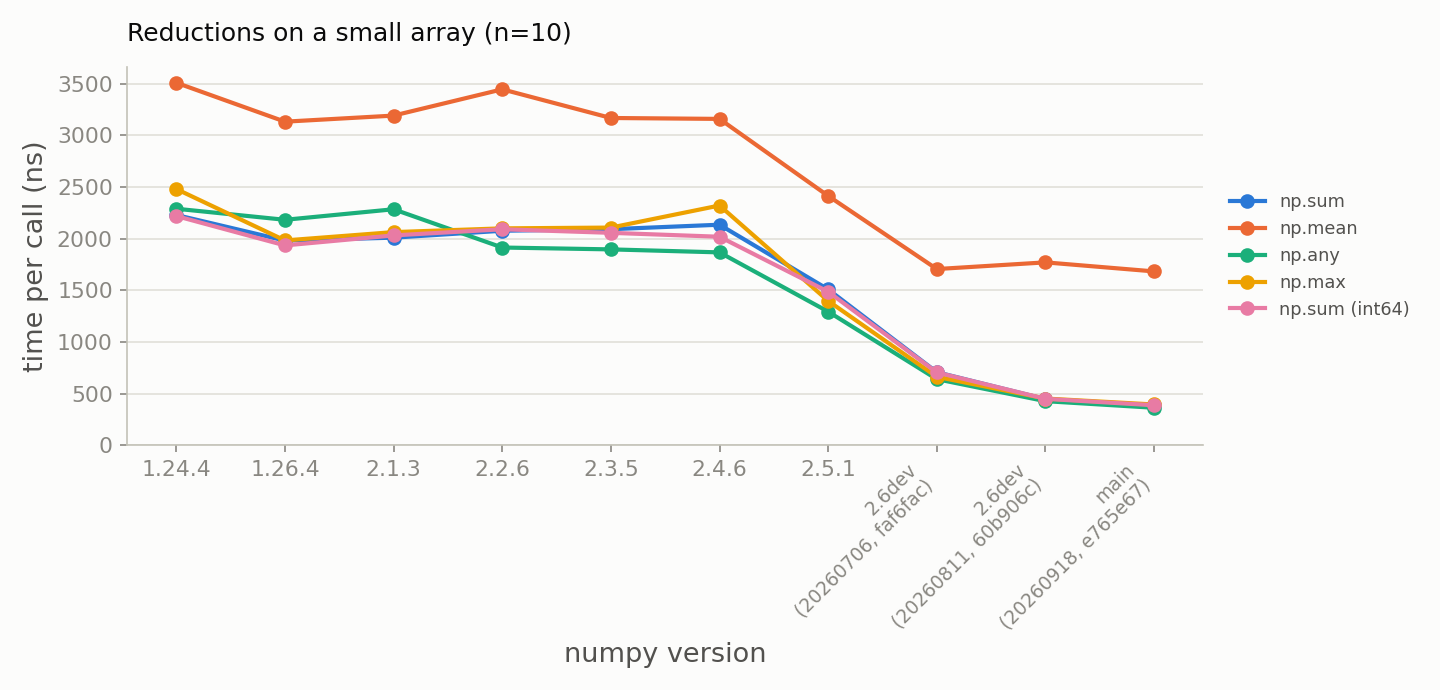
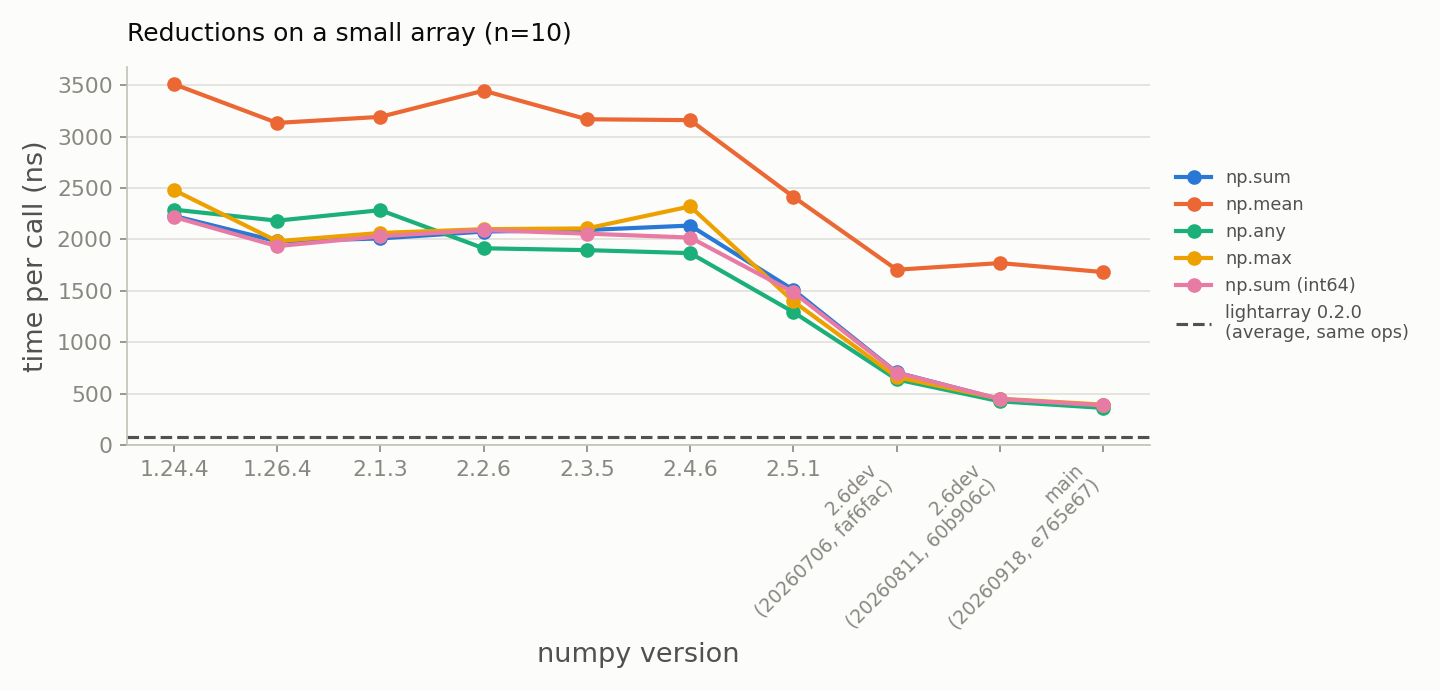
numpy_performance: lightarray reference line in the small-array reduction chart
Time the reduction-10 cases with lightarray arrays as input and draw their
average as a dashed line, as in the ufunc chart. Note the unoptimized
int64 sum path in the text and refresh the package comparison table.

diff --git a/numpy_performance/bench_small_packages.py b/numpy_performance/bench_small_packages.py
@@ -11,9 +11,9 @@ results as JSON plus a markdown table on stdout:
 A package that does not provide an operation gets no entry (tinyarray has no
 trigonometric functions).
 
-The second part times the "ufunc-small" cases of bench_cases.py with
-lightarray arrays as input; plot_results.py draws their average as a reference
-line in the small-array ufunc chart.
+The second part times the "ufunc-small" and "reduction-10" cases of
+bench_cases.py with lightarray arrays as input; plot_results.py draws their
+averages as reference lines in the corresponding charts.
 """
 
 import argparse
@@ -33,6 +33,7 @@ ta_a = ta.array(values); ta_b = ta.ones(10)
 la_a = la.array(values); la_b = la.ones(10)
 la_out = la.empty(10)
 la_i10 = la.array(list(range(10))); la_bi = la.ones(10, dtype=np.int64)
+la_bool10 = la_a > 4
 """
 
 # (row label, {package: statement})
@@ -59,6 +60,15 @@ UFUNC_SMALL_LIGHTARRAY = [
     ("a > b", "la_a > la_b"),
     ("np.maximum(a, b)", "la.maximum(la_a, la_b)"),
     ("ai + bi (int64)", "la_i10 + la_bi"),
+]
+
+# the reduction-10 cases of bench_cases.py, with lightarray arrays as operands
+REDUCTION_10_LIGHTARRAY = [
+    ("np.sum", "la.sum(la_a)"),
+    ("np.mean", "la.mean(la_a)"),
+    ("np.any", "la.any(la_bool10)"),
+    ("np.max", "la.max(la_a)"),
+    ("np.sum (int64)", "la.sum(la_i10)"),
 ]
 
 REPEAT = 9
@@ -98,16 +108,19 @@ def main() -> None:
         print(f"| {row['case']} | " + " | ".join(cells) + " |")
     print(versions, file=sys.stderr)
 
-    ufunc_small = []
-    for name, stmt in UFUNC_SMALL_LIGHTARRAY:
-        ns = run_case(stmt)
-        ufunc_small.append({"name": name, "ns": round(ns, 1)})
-        print(f"  lightarray {name:<24} {ns:7.1f} ns", file=sys.stderr)
+    def run_group(cases):
+        group = []
+        for name, stmt in cases:
+            ns = run_case(stmt)
+            group.append({"name": name, "ns": round(ns, 1)})
+            print(f"  lightarray {name:<24} {ns:7.1f} ns", file=sys.stderr)
+        return group
 
     data = {"versions": versions, "python": platform.python_version(),
             "system": platform.system(), "machine": platform.machine(),
             "results": results,
-            "ufunc_small_lightarray": ufunc_small}
+            "ufunc_small_lightarray": run_group(UFUNC_SMALL_LIGHTARRAY),
+            "reduction_10_lightarray": run_group(REDUCTION_10_LIGHTARRAY)}
     if args.output:
         with open(args.output, "w") as fh:
             fh.write(json.dumps(data, indent=2) + "\n")

diff --git a/numpy_performance/plot_results.py b/numpy_performance/plot_results.py
@@ -40,7 +40,7 @@ PLOTS = [
     ("ufunc_small", "Ufuncs on a small array (n=10)", "ufunc-small", None,
      "ufunc_small_lightarray"),
     ("reduction_10", "Reductions on a small array (n=10)", "reduction-10",
-     lambda name: name not in {"np.min", "np.all"}),
+     lambda name: name not in {"np.min", "np.all"}, "reduction_10_lightarray"),
     ("reduction_1000", "Reductions on a contiguous array (n=1000)",
      "reduction-1000", lambda name: name not in {"np.min", "np.all"}),
     ("other_operations", "Other operations", ("nonzero", "other"), None),

diff --git a/numpy_performance/numpy_small_array_performance.md b/numpy_performance/numpy_small_array_performance.md
@@ -138,6 +138,11 @@ cuts `sum`/`any`/`all`/`min`/`max` by another ~2.3× to ~650 ns
 — its Python-level wrapper adds ~1.8 µs on top of the underlying reduction.
 int64 matches float64 throughout.
 
+As in the ufunc chart, the dashed line in the n=10 chart is the average time
+of lightarray on the same five reductions with lightarray arrays as input:
+~80 ns. Four of them take 40–70 ns; the int64 `sum` is the exception at
+~190 ns, a path lightarray has not optimized yet.
+
 ### Other operations
 
 <!-- Source: bench_cases.py, plot_results.py (nonzero and other groups) -->
@@ -224,10 +229,10 @@ Julia's StaticArrays.jl is the same idea outside Python.
 
 | 10-element op | numpy main | tinyarray | lightarray |
 |---|---|---|---|
-| elementwise `a + b` | 257 ns | 40 ns | 71 ns |
-| `np.sin(a)` | 292 ns | — | 114 ns |
-| reduction (`np.sum` / `ta.dot` / `la.sum`) | 378 ns | 46 ns | 57 ns |
-| creation (`zeros(10)`) | 124 ns | 50 ns | 96 ns |
+| elementwise `a + b` | 258 ns | 40 ns | 71 ns |
+| `np.sin(a)` | 294 ns | — | 102 ns |
+| reduction (`np.sum` / `ta.dot` / `la.sum`) | 390 ns | 47 ns | 57 ns |
+| creation (`zeros(10)`) | 125 ns | 51 ns | 96 ns |
 
 tinyarray has no trigonometric functions, hence the empty cell. NumPy can
 never shed all of its protocol obligations, but these packages suggest that
